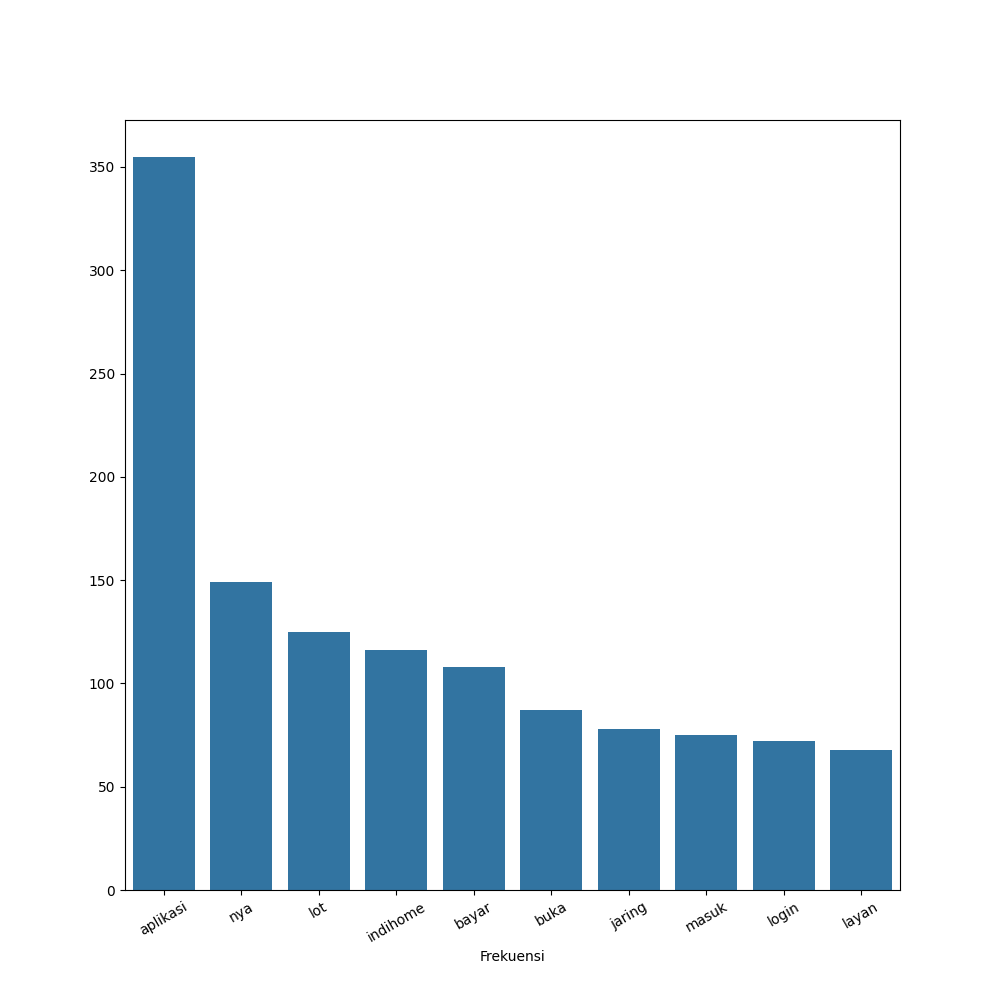
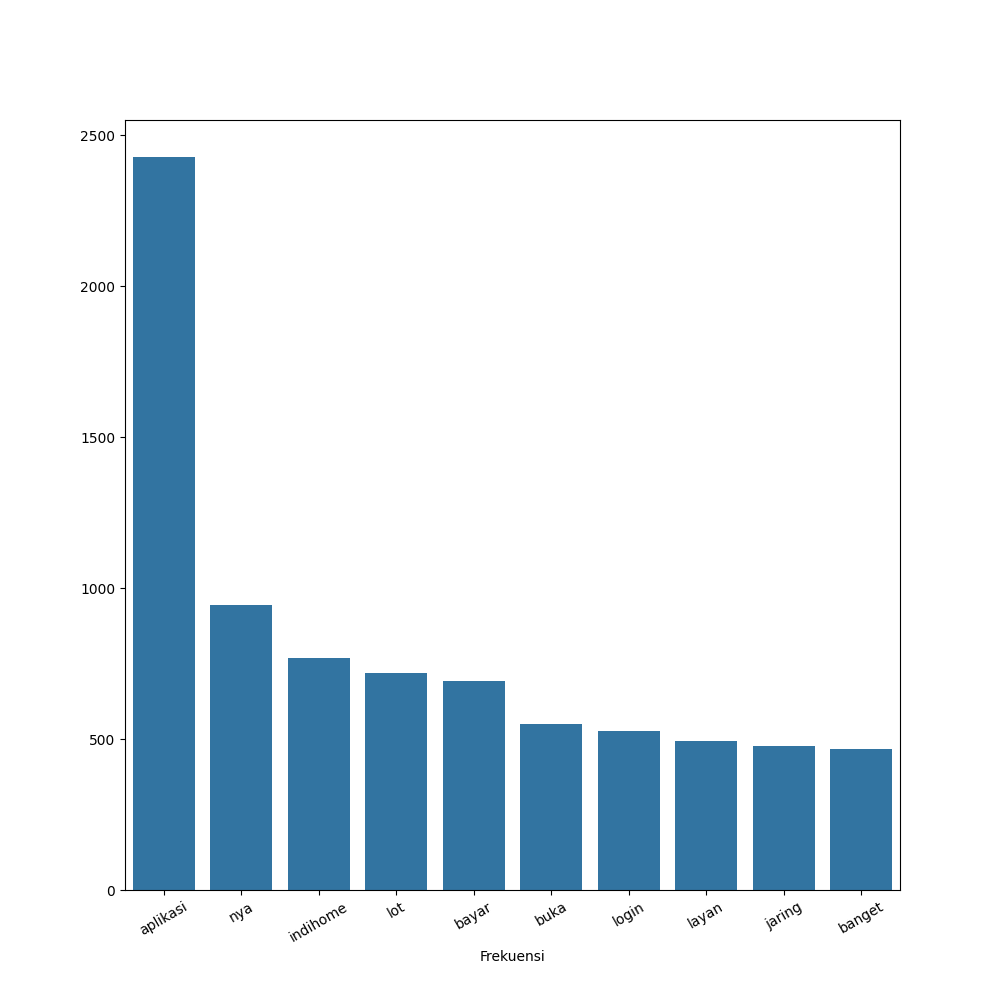
Finished all functionalities
Note: the tensorflow model and colab artifacts are still tentative

diff --git a/app.py b/app.py
@@ -5,11 +5,16 @@ import os
 import time
 import json
 import pandas as pd
+import tensorflow as tf
+import numpy as np
+
+# for plotting
 import matplotlib.pyplot as plt
-from sklearn.metrics import confusion_matrix, ConfusionMatrixDisplay
+from sklearn.metrics import confusion_matrix, ConfusionMatrixDisplay, f1_score, accuracy_score
 import nltk
 import seaborn as sns
 
+# for text preprocessing
 import re
 from indoNLP.preprocessing import remove_html, remove_url, replace_slang, replace_word_elongation, remove_stopwords
 from Sastrawi.Stemmer.StemmerFactory import StemmerFactory
@@ -21,6 +26,13 @@ app.secret_key = '@#$123456&*()'
 ALLOWED_EXTENSIONS = {'csv'}
 app.config['UPLOAD_FOLDER_CSV'] = os.path.join(os.getcwd(), 'static/csv')
 app.config['UPLOAD_FOLDER_IMAGES'] = os.path.join(os.getcwd(), 'static/images')
+
+# load model tensorflow
+model = tf.keras.models.load_model('model')
+
+model.compile(optimizer=tf.keras.optimizers.Adam(0.0005),
+                  loss=tf.keras.losses.BinaryCrossentropy(),
+                  metrics=['accuracy', tf.keras.metrics.F1Score(average='micro', threshold=0.5)])
 
 # buat direktori untuk menyimpan csv yang diupload
 if not os.path.isdir(app.config['UPLOAD_FOLDER_CSV']): 
@@ -77,6 +89,8 @@ def preprocess_text(text):
     return text
 
 # Function untuk menghandle upload file csv pada form evaluasi dan upload csv
+# output: filename csv (concat(session id + filename)) yang disimpan
+# Note: harus dalam konteks request
 def handle_upload():
     # check if the post request has the file part
     if 'file' not in request.files:
@@ -99,6 +113,33 @@ def handle_upload():
 
     return filename
 
+# Membuat plot word_frequency dan menyimpan gambarnya di disk
+# Input: dataframe dengan kolom 'preprocessed_content' dan filename dengan ekstensi
+# output: filename gambar (concat(session id + filename)) yang disimpan
+def create_word_frequency(df, filename):
+    # For every token that is in stopwords, remove it
+    # df.map(str)     # Make sure text is string utf-8 encoding, or remove_stopwords might err
+
+    text = ' '.join(remove_stopwords(str(text)) for text in df).split()
+
+    # # Using nltk find all the frequencies
+    text_freq = nltk.FreqDist(text).most_common(10)
+    text_freq = pd.Series(dict(text_freq))
+    fig, ax = plt.subplots(figsize=(10,10))
+
+    ## Seaborn plotting using Pandas attributes + xtick rotation for ease of viewing
+    posiif_plot = sns.barplot(x=text_freq.index, y=text_freq.values, ax=ax)
+    plt.xticks(rotation=30)
+    plt.xlabel('Kata')
+    plt.xlabel('Frekuensi')
+
+    filename = session['uuid'] + '-' + filename
+    frekuensi_filepath = os.path.join(app.config['UPLOAD_FOLDER_IMAGES'], filename)
+    plt.savefig(frekuensi_filepath)
+
+    return filename
+
+
 # =================================================================
 
 # ========================== Middleware ===========================
@@ -110,58 +151,28 @@ def hook():
         session['uuid'] = str(uuid.uuid4())
 
 # =================================================================
-@app.route('/')
+@app.route('/', methods=['GET', 'POST'])
 def index():
-    
+    if request.method == 'POST':
+        hasil_preprocessing = preprocess_text(request.form['ulasan'])
+        output_model = model.predict([hasil_preprocessing])[0][0]
+        hasil_klasifikasi = 'POSITIF' if output_model >= 0.5 else 'NEGATIF'
+
+        return render_template('index.jinja2',
+                ulasan=request.form['ulasan'],
+                hasil_preprocessing=hasil_preprocessing,
+                output_model=output_model if hasil_preprocessing != '' else 'INVALID',
+                hasil_klasifikasi=hasil_klasifikasi if hasil_preprocessing != '' else 'INVALID',
+                klasifikasi=True)
+
     return render_template('index.jinja2', klasifikasi=True)
 
 @app.route('/upload_csv', methods=['GET', 'POST'])
 def upload_csv():
     if request.method == 'POST':
-        filename = handle_upload()
-        df = pd.read_csv(os.path.join(app.config['UPLOAD_FOLDER_CSV'], filename))
+        handle_upload()
 
-        ## Text positif
-        # For every token that is in stopwords, remove it
-        text_positif = ' '.join(remove_stopwords(text) for text in df[df['predicted_label'] == 1]['preprocessed_content']).split()
-
-        # # Using nltk find all the frequencies
-        text_positif_freq = nltk.FreqDist(text_positif).most_common(10)
-
-        text_positif_freq = pd.Series(dict(text_positif_freq))
-
-        fig, ax = plt.subplots(figsize=(10,10))
-
-        ## Seaborn plotting using Pandas attributes + xtick rotation for ease of viewing
-        posiif_plot = sns.barplot(x=text_positif_freq.index, y=text_positif_freq.values, ax=ax)
-        plt.xticks(rotation=30)
-        plt.xlabel('Kata')
-        plt.xlabel('Frekuensi')
-        frekuensi_positif_filepath = os.path.join(app.config['UPLOAD_FOLDER_IMAGES'], session['uuid'] + '-' + 'frekuensi_positif.png')
-        plt.savefig(frekuensi_positif_filepath)
-
-        ## text negatif
-        # For every token that is in stopwords, remove it
-        text_negatif = ' '.join(remove_stopwords(text) for text in df[df['predicted_label'] == 0]['preprocessed_content']).split()
-
-        # # Using nltk find all the frequencies
-        text_negatif_freq = nltk.FreqDist(text_negatif).most_common(10)
-
-        text_negatif_freq = pd.Series(dict(text_negatif_freq))
-
-        fig, ax = plt.subplots(figsize=(10,10))
-
-        ## Seaborn plotting using Pandas attributes + xtick rotation for ease of viewing
-        posiif_plot = sns.barplot(x=text_negatif_freq.index, y=text_negatif_freq.values, ax=ax)
-        plt.xticks(rotation=30)
-        plt.xlabel('Kata')
-        plt.xlabel('Frekuensi')
-        frekuensi_negatif_filepath = os.path.join(app.config['UPLOAD_FOLDER_IMAGES'], session['uuid'] + '-' + 'frekuensi_negatif.png')
-        plt.savefig(frekuensi_negatif_filepath)
-
-        return render_template('hasil_upload_csv.jinja2', upload_csv=True, 
-                frekuensi_positif=session['uuid'] + '-' + 'frekuensi_positif.png',
-                frekuensi_negatif=session['uuid'] + '-' + 'frekuensi_negatif.png')
+        return render_template('hasil_upload_csv.jinja2', upload_csv=True)
 
     return render_template('upload_csv.jinja2', upload_csv=True)
 
@@ -171,28 +182,31 @@ def hasil_upload_csv():
     if request.method == 'POST':
         filename = session['uuid'] + '-' + 'upload_csv.csv'
         df = pd.read_csv(os.path.join(app.config['UPLOAD_FOLDER_CSV'], filename))
+        df = df[['content']]
+
+        df['preprocessed_content'] = df['content'].map(preprocess_text)
+        df = df[df['preprocessed_content'] != '']  # Jika content kosong setelah preprocessing, buang row
+
+        df['prediction'] = model.predict(np.array(df['preprocessed_content'])) # predict class
+        df['predicted_label'] = df.apply(lambda row: (1 if row['prediction'] >= 0.5 else 0), axis=1) # bulatkan prediksi
+
+        frekuensi_positif_filename = create_word_frequency(df[df['predicted_label'] == 1]['preprocessed_content'], 'frekuensi_positif.png')
+        frekuensi_negatif_filename = create_word_frequency(df[df['predicted_label'] == 0]['preprocessed_content'], 'frekuensi_negatif.png')
 
         result = df.to_json()
         parsed = json.loads(result)
+
+        parsed['frekuensi_positif'] = url_for('static', filename='images/' + frekuensi_positif_filename)
+        parsed['frekuensi_negatif'] = url_for('static', filename='images/' + frekuensi_negatif_filename)
 
         return json.dumps(parsed, indent=4)
 
 @app.route('/evaluasi', methods=['GET', 'POST'])
 def evaluasi():
     if request.method == "POST":
-        filename = handle_upload()
-        df = pd.read_csv(os.path.join(app.config['UPLOAD_FOLDER_CSV'], filename))
+        handle_upload()
         
-        # confusion matrix
-        cm = confusion_matrix(df['label'], df['predicted_label'])
-        disp = ConfusionMatrixDisplay(confusion_matrix=cm)
-        disp.plot()
-
-        plt.title('confusion matrix')
-        confusion_matrix_filepath = os.path.join(app.config['UPLOAD_FOLDER_IMAGES'], session['uuid'] + '-' + 'confusion_matrix.png')
-        plt.savefig(confusion_matrix_filepath)
-
-        return render_template('hasil_evaluasi.jinja2', confusion_matrix=session['uuid'] + '-' + 'confusion_matrix.png')
+        return render_template('hasil_evaluasi.jinja2', evaluasi=True)
 
     return render_template('evaluasi.jinja2', evaluasi=True)
 
@@ -201,9 +215,30 @@ def hasil_evaluasi():
     if request.method == 'POST':
         filename = session['uuid'] + '-' + 'upload_csv.csv'
         df = pd.read_csv(os.path.join(app.config['UPLOAD_FOLDER_CSV'], filename))
+        df = df[['content', 'score', 'label']]
+
+        df['preprocessed_content'] = df['content'].map(preprocess_text)
+        df = df[df['preprocessed_content'] != '']  # Jika content kosong setelah preprocessing, buang row
+
+        df['prediction'] = model.predict(np.array(df['preprocessed_content']), batch_size=1024) # predict class
+        df['predicted_label'] = df.apply(lambda row: (1 if row['prediction'] >= 0.5 else 0), axis=1) # bulatkan prediksi
+
+        # confusion matrix
+        cm = confusion_matrix(df['label'], df['predicted_label'])
+        disp = ConfusionMatrixDisplay(confusion_matrix=cm)
+        disp.plot()
+
+        plt.title('confusion matrix')
+        confusion_matrix_filename = session['uuid'] + '-' + 'confusion_matrix.png'
+        confusion_matrix_filepath = os.path.join(app.config['UPLOAD_FOLDER_IMAGES'], confusion_matrix_filename)
+        plt.savefig(confusion_matrix_filepath)
 
         result = df.to_json()
         parsed = json.loads(result)
+
+        parsed['binary_accuracy'] = f"{accuracy_score(df['label'], df['predicted_label']):.2%}"
+        parsed['f1_score'] = f"{f1_score(df['label'], df['predicted_label']):.2%}"
+        parsed['confusion_matrix'] = url_for('static', filename='images/' + confusion_matrix_filename);
 
         return json.dumps(parsed, indent=4)
 
